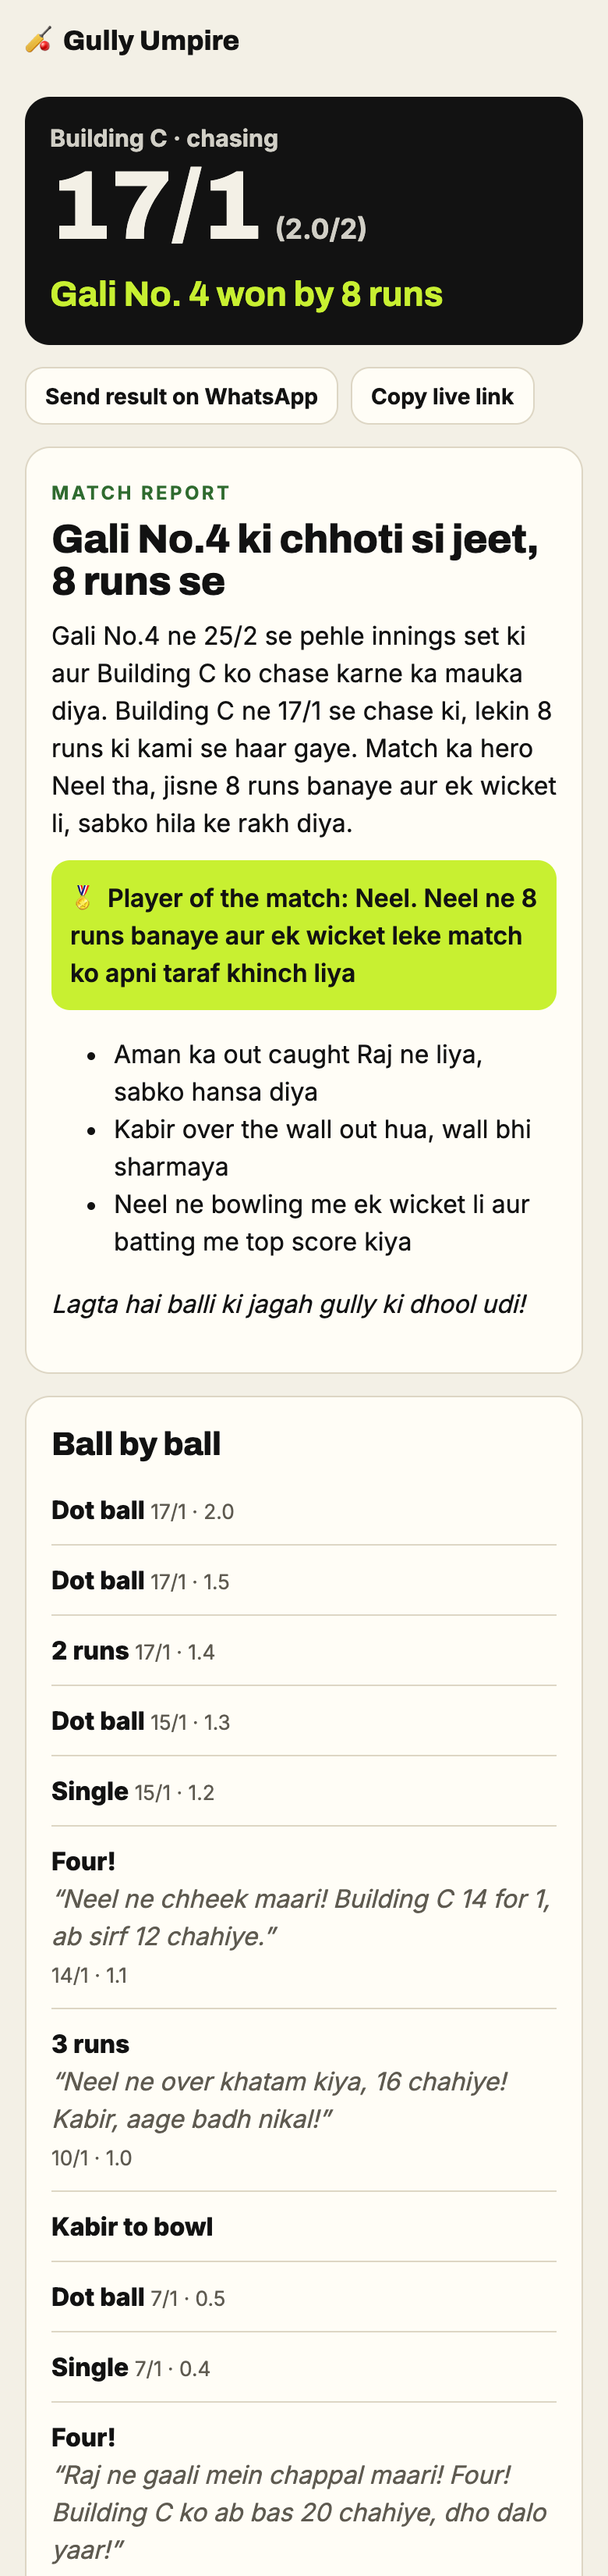
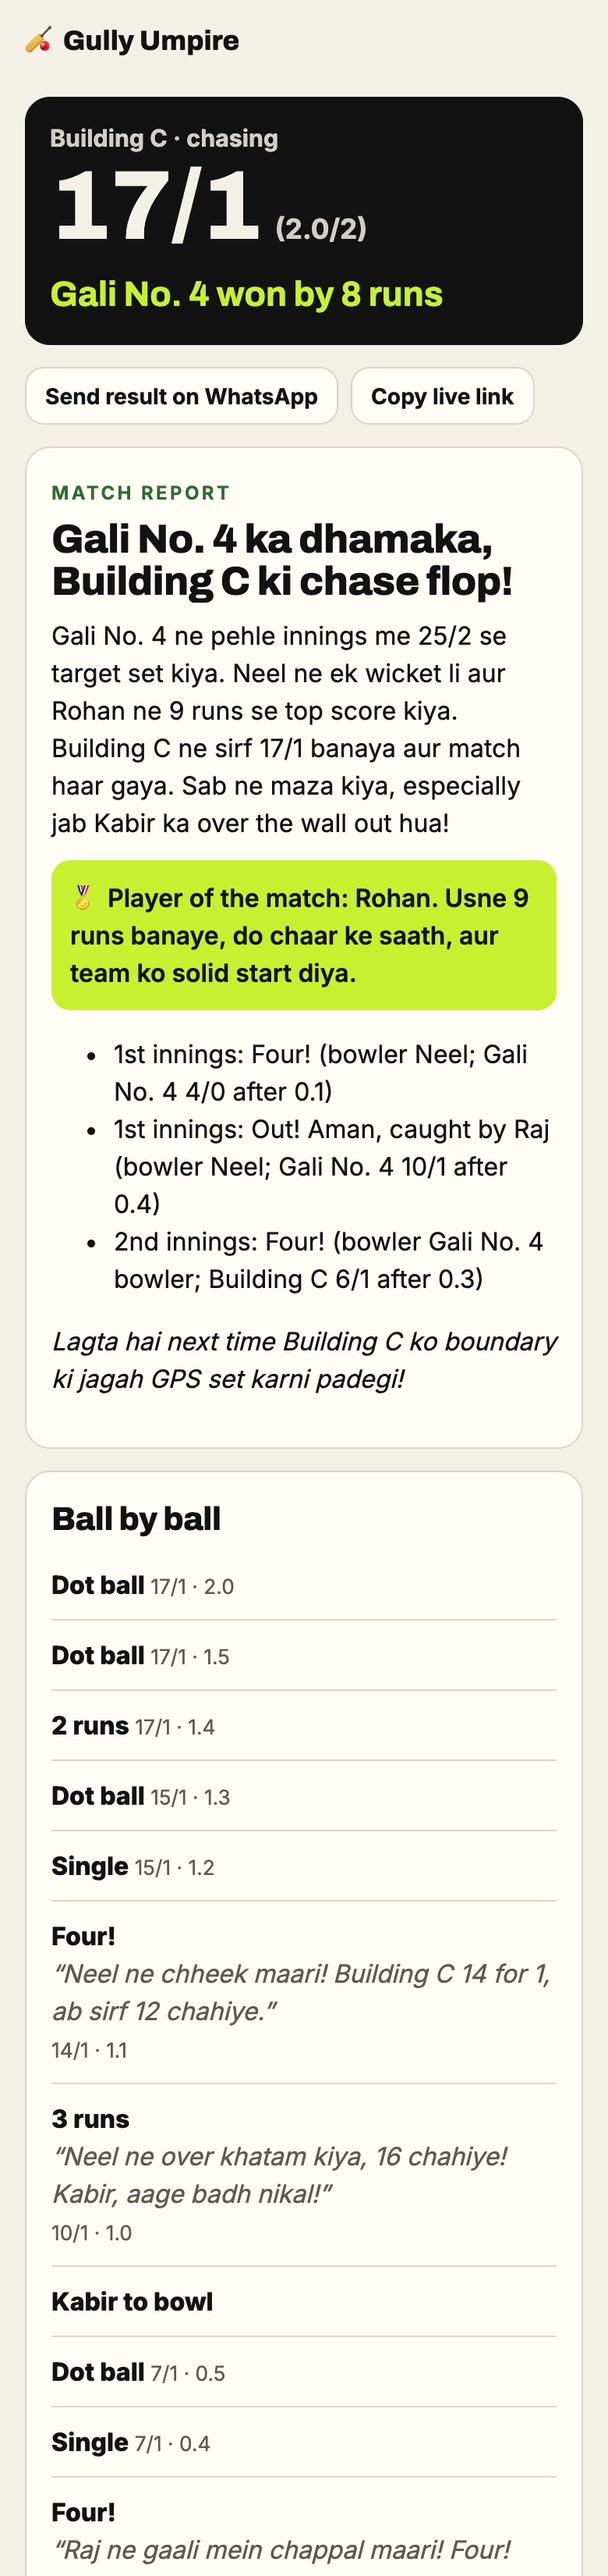
moments name who did it; top scorer facts include fours and sixes

diff --git a/lib/umpire.js b/lib/umpire.js
@@ -198,7 +198,7 @@ const REPORT_SYSTEM = `Write a short, fun match report for a gully cricket match
 Reply with only JSON:
 {"headline":"max 10 words","summary":"3 or 4 sentences","playerOfMatch":{"name":"...","why":"one sentence"},"moments":["three short moments from the match"],"banter":"one funny closing line"}
 
-"moments" must each retell one item from the moments list you're given, in its own innings, without adding details. If the list is short, use fewer.`
+"moments": pick three items from the moments list and retell each as one short, lively line in your own words. Keep who did what and in which innings exactly as given; add no new facts. If the list is short, use fewer.`
 
 export async function writeReport(card, language = "en") {
   const players = card.innings.flatMap((i) => [...i.batters.map((b) => b.name), ...i.bowlers.map((b) => b.name)]);
@@ -254,13 +254,15 @@ export function reportCard(state) {
     .map((l) => {
       const inn = state.innings[l.innings];
       const at = `${teams[inn.batting]} ${l.after.runs}/${l.after.wickets} after ${oversText(l.after.balls)}`;
-      return `${l.innings === 0 ? "1st" : "2nd"} innings: ${l.said} (bowler ${l.bowler}; ${at})`;
+      const by = l.bowler.endsWith(" bowler") ? "" : ` off ${l.bowler}`;
+      const what = l.wicket ? l.said.replace(/^Out! /, "") + `, out${by}` : `${l.batter} hit a ${l.boundary === 6 ? "six" : "four"}${by}`;
+      return `${l.innings === 0 ? "1st" : "2nd"} innings: ${what} (${at})`;
     })
     .slice(-12);
   return {
     moments,
     facts: {
-      topScorer: `${top.name} (${top.runs} for ${top.team})`,
+      topScorer: `${top.name}: ${top.runs} off ${top.balls} balls, ${top.fours} four${top.fours === 1 ? "" : "s"}, ${top.sixes} six${top.sixes === 1 ? "" : "es"}, for ${top.team}`,
       bestBowler: best ? `${best.name} (${best.wickets} for ${best.runs}, ${best.team})` : "no named bowler",
       winner: state.result?.winner === null || state.result?.winner === undefined ? null : teams[state.result.winner],
     },
